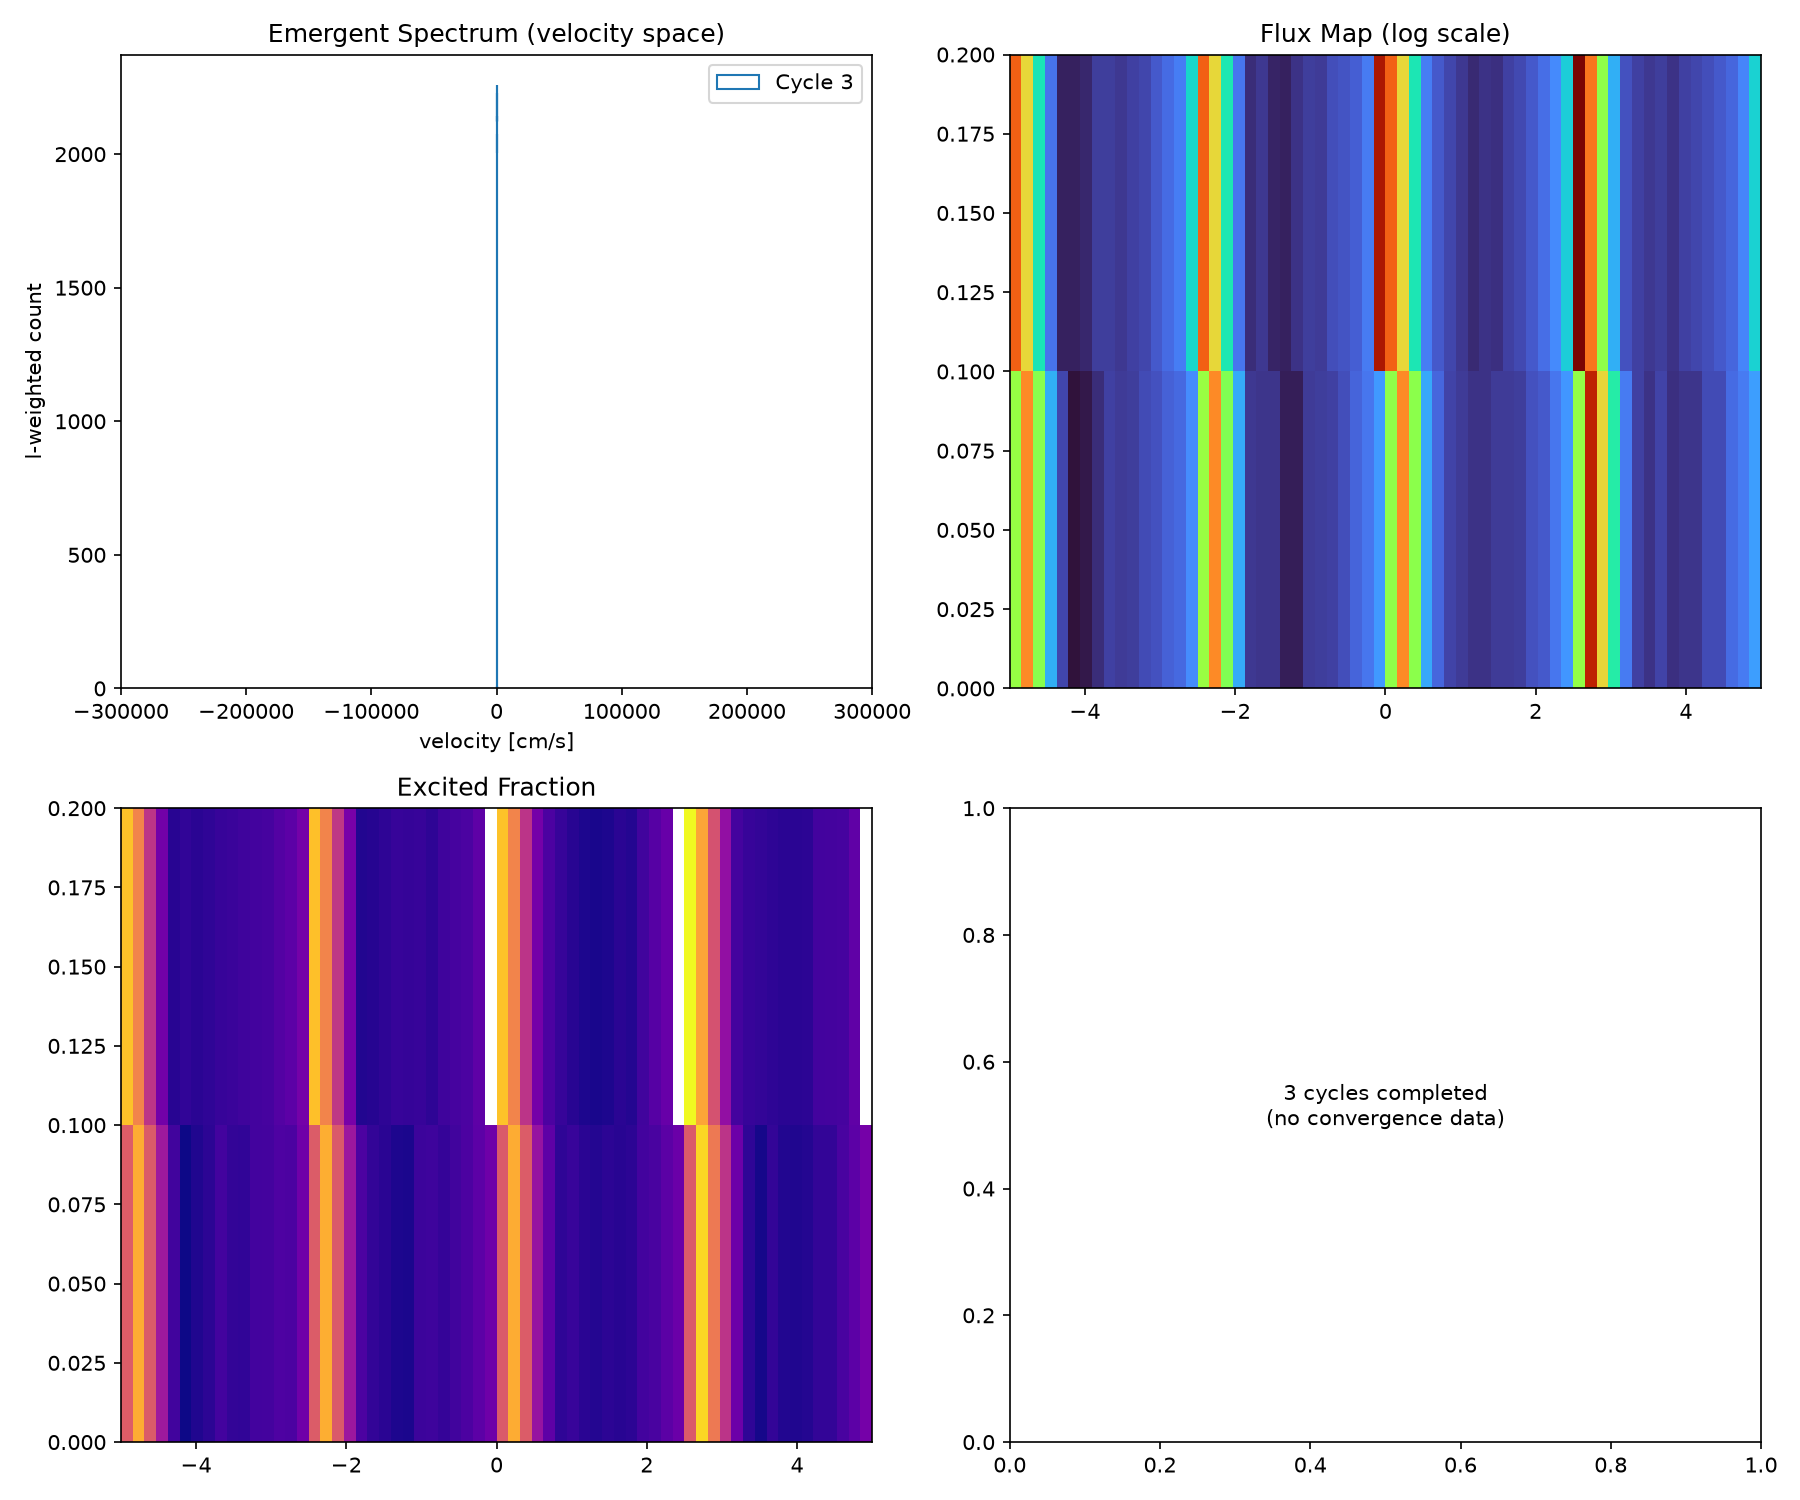
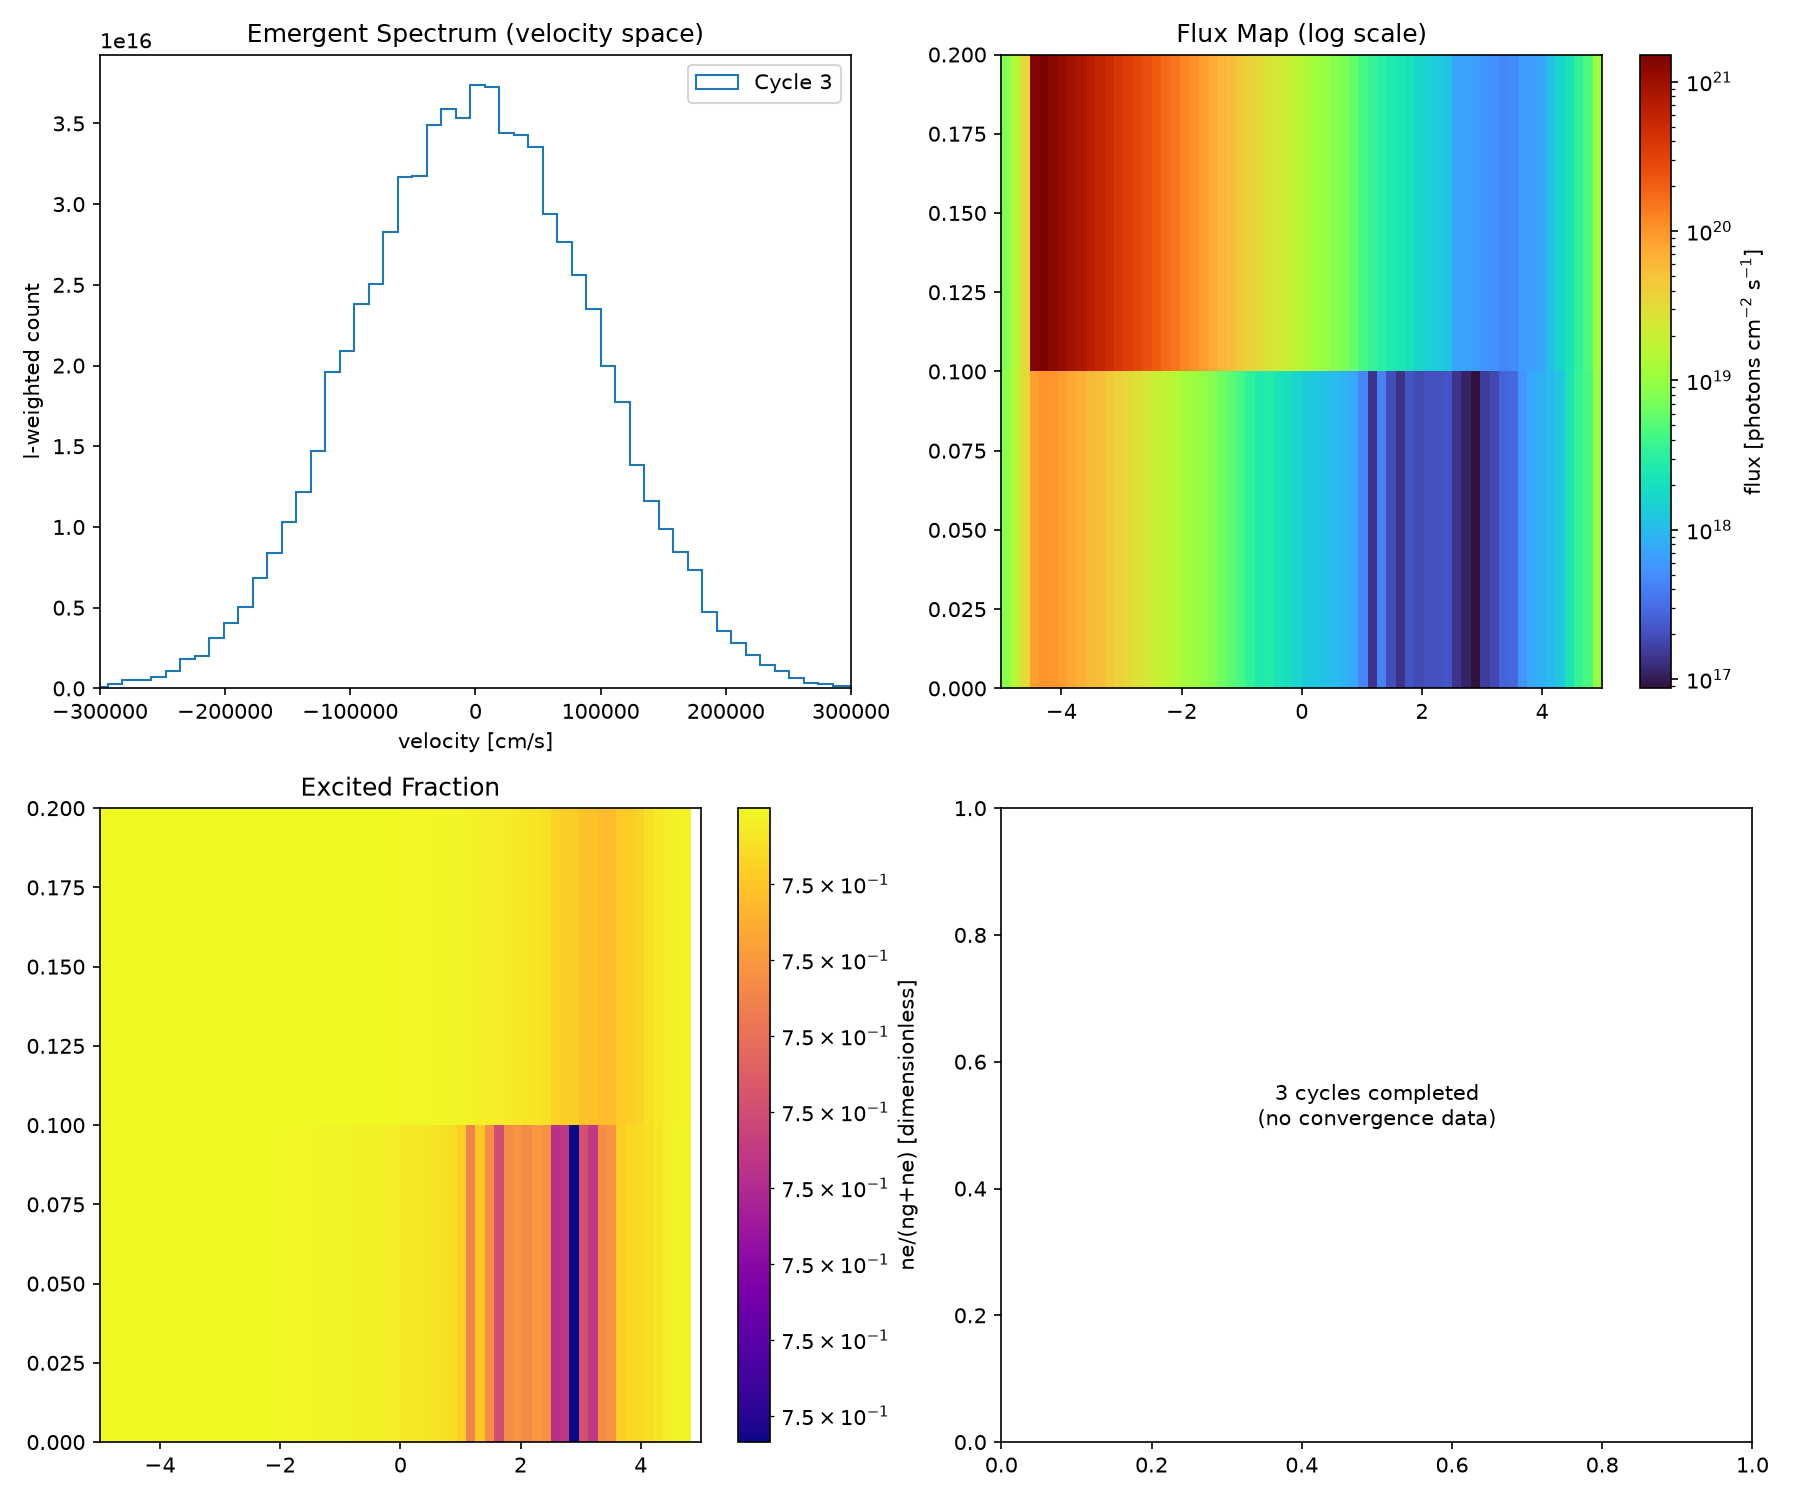
fix: proper scaling, dv_c removal, 3D reshape, colorbar labels, gen.h sv init
- write_photon_data returns scale factor; iterate/pipeline undo scaling
- output flx and exc_flux_flat always in CGS
- dv_c removed from Kratos photon struct and Python 10-col format
- gen.h: sv=sigma (was 0), valid ncol 9/10, fixed sigma/amplitude checks
- slice_plot_2d: (nz,ny,nx) reshape + .T transpose for pcolormesh
- visualize.py: cbar_label param for dimensionless/CGS labels
- pipeline.py: unit_l0/unit_t0 params, proper scaling on readback
- AGENTS.md: pitfalls 6-14 covering all discovered patterns

diff --git a/pipeline/pipeline.py b/pipeline/pipeline.py
@@ -114,7 +114,8 @@ def run_kratos_cycle(work_dir, cycle, field_file, photon_file,
 def run_pipeline(model, mesh, work_dir, n_cycles=3,
                  n_photon=10000, n_step=1000, n_scat=100,
                  n_fld=2, ph_mode=0, par_overrides=None,
-                 keep_intermediate=True):
+                 keep_intermediate=True,
+                 unit_l0=1.0, unit_t0=1.0):
     """
     Run the full population-updating pipeline.
 
@@ -129,6 +130,8 @@ def run_pipeline(model, mesh, work_dir, n_cycles=3,
     n_fld : int  Number of flux/field components
     ph_mode : int  0=coherent, 1=CFR
     par_overrides : dict  Additional par file overrides
+    unit_l0 : float  code length unit in CGS (cm per code-length)
+    unit_t0 : float  code time unit in CGS (s per code-time)
 
     Returns
     -------
@@ -167,10 +170,10 @@ def run_pipeline(model, mesh, work_dir, n_cycles=3,
         field_file = os.path.join(work_dir, f'fields_cycle{cycle}.bin')
         write_field_data(field_file, fields, mesh)
 
-        # Generate photons
+        # Write photon binary and capture proper-weight scale factor
         photons = model.generate_photons(populations, mesh, cycle)
         photon_file = os.path.join(work_dir, f'photons_cycle{cycle}.bin')
-        write_photon_data(photon_file, photons)
+        scale = write_photon_data(photon_file, photons)
 
         # Run Kratos
         prefix = f'cycle{cycle}'
@@ -187,11 +190,23 @@ def run_pipeline(model, mesh, work_dir, n_cycles=3,
         # The model's make_fields uses the same field size as Kratos output,
         # so we don't need to strip ghost cells.
         if 'excitation_flux' in output:
-            output['exc_flux_flat'] = output['excitation_flux']
+            area_factor = unit_l0 * unit_l0 * unit_t0
+            inv_scale = 1.0 / scale
+            exc = np.asarray(output['excitation_flux'], dtype=np.float64).ravel()
+            exc = np.nan_to_num(exc, nan=0.0, posinf=0.0, neginf=0.0)
+            exc = exc * inv_scale / area_factor
+            output['exc_flux_flat'] = exc
+            output['excitation_flux'] = exc
         elif 'fab' in output:
             output['exc_flux_flat'] = output['fab']
         if 'flx' in output:
-            output['flx_flat'] = output['flx']
+            area_factor = unit_l0 * unit_l0 * unit_t0
+            inv_scale = 1.0 / scale
+            flx = np.asarray(output['flx'], dtype=np.float64).ravel()
+            flx = np.nan_to_num(flx, nan=0.0, posinf=0.0, neginf=0.0)
+            flx = flx * inv_scale / area_factor
+            output['flx_flat'] = flx
+            output['flx'] = flx
 
         output['cycle'] = cycle
         output['populations'] = {k: v.copy() for k, v in populations.items()}

diff --git a/core/iterator.py b/core/iterator.py
@@ -73,9 +73,7 @@ def iterate(source_photons, species, fields_init, mesh, n_cycles=5,
             v_factor = unit_t0 / unit_l0
             ph_arr[:, 7] *= v_factor
             ph_arr[:, 8] *= v_factor
-        if ph_arr.shape[1] >= 11:
-            ph_arr[:, 10] *= v_factor
-        write_photon_data(photon_file, ph_arr)
+        scale_factor = write_photon_data(photon_file, ph_arr)
 
         prefix = f"cycle{cycle}"
         output, log_text, elapsed = run_kratos_cycle(
@@ -87,16 +85,35 @@ def iterate(source_photons, species, fields_init, mesh, n_cycles=5,
             break
 
         output["cycle"] = cycle
+
+        if 'photons' in output:
+            v_factor = unit_t0 / unit_l0
+            phot = output['photons']
+            for key in ('vel', 'x', 'l', 'sigma'):
+                if key in phot:
+                    arr = np.asarray(phot[key], dtype=np.float64)
+                    if key in ('x', 'l'):
+                        arr *= unit_l0
+                    else:
+                        arr /= v_factor
+                    phot[key] = arr
+
         results.append(output)
 
         if hasattr(species, "update_populations"):
             exc_flux = output.get("excitation_flux", output.get("exc_flux_flat", output.get("fab_flat", output.get("fab", None))))
             flx = output.get("flx_flat", output.get("flx", None))
+            area_factor = unit_l0 * unit_l0 * unit_t0
+            inv_scale = 1.0 / scale_factor
             if exc_flux is not None:
                 exc_flux = np.asarray(exc_flux, dtype=np.float64).ravel()
                 exc_flux = np.nan_to_num(exc_flux, nan=0.0, posinf=0.0, neginf=0.0)
-                area_factor = unit_l0 * unit_l0 * unit_t0
-                exc_flux = exc_flux / area_factor
+                exc_flux = exc_flux * inv_scale / area_factor
+                output['exc_flux_flat'] = exc_flux
+            if flx is not None:
+                flx = np.nan_to_num(np.asarray(flx, dtype=np.float64).ravel(),
+                                    nan=0.0, posinf=0.0, neginf=0.0) * inv_scale / area_factor
+                output['flx'] = flx
             populations = species.update_populations(exc_flux, flx, populations, cycle,
                                                        transition_idx=transition_idx)
 

diff --git a/core/fields.py b/core/fields.py
@@ -95,9 +95,9 @@ def slice_plot_2d(ax, data, mesh, plane="xy", slice_idx=None, log=True, cmap="tu
     nx, ny, nz = int(n_cell[0]), int(n_cell[1]), int(n_cell[2])
 
     if data.size > nx * ny * nz:
-        data_3d = data.reshape(nx, ny, nz, -1)[:, :, :, 0]
+        data_3d = data.reshape(nz, ny, nx, -1)[:, :, :, 0]
     else:
-        data_3d = data.reshape(nx, ny, nz)
+        data_3d = data.reshape(nz, ny, nx)
     norm = LogNorm() if log else None
 
     if coords == "cartesian":
@@ -108,15 +108,15 @@ def slice_plot_2d(ax, data, mesh, plane="xy", slice_idx=None, log=True, cmap="tu
         if plane == "xy":
             si = slice_idx if slice_idx is not None else nz // 2
             X, Y = np.meshgrid(xe, ye, indexing="ij")
-            ax.pcolormesh(X, Y, data_3d[:, :, si], cmap=cmap, norm=norm, **kwargs)
+            pc = ax.pcolormesh(X, Y, data_3d[si, :, :].T, cmap=cmap, norm=norm, **kwargs)
         elif plane == "xz":
             si = slice_idx if slice_idx is not None else ny // 2
             X, Z = np.meshgrid(xe, ze, indexing="ij")
-            ax.pcolormesh(X, Z, data_3d[:, si, :], cmap=cmap, norm=norm, **kwargs)
+            pc = ax.pcolormesh(X, Z, data_3d[:, si, :].T, cmap=cmap, norm=norm, **kwargs)
         elif plane == "yz":
             si = slice_idx if slice_idx is not None else nx // 2
             Y, Z = np.meshgrid(ye, ze, indexing="ij")
-            ax.pcolormesh(Y, Z, data_3d[si, :, :], cmap=cmap, norm=norm, **kwargs)
+            pc = ax.pcolormesh(Y, Z, data_3d[:, :, si].T, cmap=cmap, norm=norm, **kwargs)
         else:
             raise ValueError(f"Unknown plane '{plane}' for Cartesian mesh")
 
@@ -131,11 +131,13 @@ def slice_plot_2d(ax, data, mesh, plane="xy", slice_idx=None, log=True, cmap="tu
             R, Theta = np.meshgrid(r_face, theta_face, indexing="ij")
             X = R * np.sin(Theta)
             Y = R * np.cos(Theta)
-            ax.pcolormesh(X, Y, slc.T, cmap=cmap, norm=norm, **kwargs)
+            pc = ax.pcolormesh(X, Y, slc.T, cmap=cmap, norm=norm, **kwargs)
         else:
             raise ValueError(f"Unknown plane '{plane}' for spherical mesh")
     else:
         raise ValueError(f"Unknown coordinate system '{coords}'")
+
+    return pc
 
 
 def validate_units(fields):

diff --git a/docs/examples/plane_parallel.py b/docs/examples/plane_parallel.py
@@ -92,7 +92,7 @@ fields = {
 # ── 4. Generate source photons ─────────────────────────────────────────
 #
 # Point source at (x=-4.5, y=0.1, z=0.1) just outside the left face.
-# 11-column format: x,y,z, dir_x,dir_y,dir_z, proper, vel, sigma, amplitude, dv_c
+# 10-column format: x,y,z, dir_x,dir_y,dir_z, proper, vel, sigma, amplitude
 #
 
 print("Generating photons...")
@@ -103,7 +103,7 @@ lam = 2.35e-4     # 2.35 microns (CO v=0→2 band head)
 sigma     = b_sca / np.sqrt(2)   # intrinsic Doppler width
 amplitude = 1.0                   # line strength (unit for scaling)
 
-ph_arr = np.zeros((n_photon, 11), dtype=np.float64)
+ph_arr = np.zeros((n_photon, 10), dtype=np.float64)
 ph_arr[:, 0] = -4.5
 ph_arr[:, 1] = 0.1
 ph_arr[:, 2] = 0.1
@@ -114,7 +114,6 @@ ph_arr[:, 6] = (L / (h * c / lam)) / n_photon   # proper weight
 ph_arr[:, 7] = 0.0                  # vel: zero velocity offset (line center)
 ph_arr[:, 8] = sigma                # sigma: intrinsic Doppler width
 ph_arr[:, 9] = amplitude            # amplitude: line strength
-ph_arr[:, 10] = 0.0                 # dv_c: line center = 0
 
 E_ph = h * c / lam
 N_dot = L / E_ph
@@ -186,7 +185,8 @@ if len(final_pops) >= 2:
     n_ground = pop_vals[0]
     n_excited = pop_vals[1]
     plot_population_map(axes[1, 0], n_excited / (n_ground + n_excited + 1e-30),
-                        mesh, title='Excited Fraction')
+                        mesh, title='Excited Fraction',
+                        cbar_label='ne/(ng+ne) [dimensionless]')
 
 # 7d. Convergence history
 print("Plotting convergence...")
@@ -209,7 +209,7 @@ print(f"\nResults saved to {outpath}")
 
 for k, res in enumerate(results):
     print(f"\nCycle {k+1}:")
-    exc_flux = res.get('excitation_flux')
+    exc_flux = res.get('exc_flux_flat', res.get('excitation_flux'))
     flx = res.get('flx')
     if exc_flux is not None:
         print(f"  excitation_flux_max = {exc_flux.max():.4f}")

diff --git a/pipeline/kratos_io.py b/pipeline/kratos_io.py
@@ -54,12 +54,13 @@ def write_photon_data(filename, photons, n_col=None):
     ----------
     filename : str
     photons : ndarray (n_ph, n_col)
-        Columns: x, y, z, dir_x, dir_y, dir_z, proper, [vel], [sigma, amplitude, dv_c]
+        Columns: x, y, z, dir_x, dir_y, dir_z, proper, [vel], [sigma, amplitude]
     n_col : int, optional
-        Default: photons.shape[1]. Must be 7, 8, or 11.
+        Default: photons.shape[1]. Must be 7, 8, 9, or 10.
     """
     ph = np.asarray(photons, dtype=np.float64)
     proper_max = abs(ph[:, 6].max()) if ph.shape[1] >= 7 else 0.0
+    scale = 1.0
     if proper_max > 1e38:
         scale = 1.0 / proper_max
         ph[:, 6] *= scale
@@ -67,8 +68,8 @@ def write_photon_data(filename, photons, n_col=None):
     ph = ph.astype(np.float32)
     if n_col is None:
         n_col = ph.shape[1]
-    if n_col not in (7, 8, 11):
-        raise ValueError(f'n_col must be 7 or 8, got {n_col}')
+    if n_col not in (7, 8, 9, 10):
+        raise ValueError(f'n_col must be 7, 8, 9, or 10, got {n_col}')
 
     bio = binary_io(filename)
     bio.cache('par_n_col', n_col, dtype='int32')
@@ -76,6 +77,7 @@ def write_photon_data(filename, photons, n_col=None):
     bio.cache('par_par_dat', ph, dtype='float32')
     bio.save()
     print(f'Wrote photons: {filename} ({ph.shape[0]} photons, {n_col} cols)')
+    return scale
 
 
 def read_output(filename):
@@ -168,8 +170,6 @@ def read_output(filename):
             phot['l'] = bio.as_array(raw_key, 'f')
         elif '_rank_' in raw_key and raw_key.endswith('_vel'):
             phot['vel'] = bio.as_array(raw_key, 'f')
-        elif '_rank_' in raw_key and raw_key.endswith('_dv_c'):
-            phot['dv_c'] = bio.as_array(raw_key, 'f')
         elif '_rank_' in raw_key and raw_key.endswith('_sigma'):
             phot['sigma'] = bio.as_array(raw_key, 'f')
         elif '_rank_' in raw_key and raw_key.endswith('_amplitude'):

diff --git a/core/visualize.py b/core/visualize.py
@@ -31,13 +31,17 @@ def plot_emergent_spectrum(ax, photons, bins=80, xlim=None, label=""):
         ax.legend()
 
 
-def plot_flux_slice(ax, flx, mesh, title="", log=True, cmap="turbo"):
-    slice_plot_2d(ax, flx, mesh, plane="xy", slice_idx=None, log=log, cmap=cmap)
+def plot_flux_slice(ax, flx, mesh, title="", log=True, cmap="turbo", cbar_label=None):
+    pc = slice_plot_2d(ax, flx, mesh, plane="xy", slice_idx=None, log=log, cmap=cmap)
+    label = cbar_label or "flux [photons cm$^{-2}$ s$^{-1}$]"
+    plt.colorbar(pc, ax=ax, label=label)
     ax.set_title(title or "Flux slice (xy)")
 
 
-def plot_population_map(ax, n, mesh, level=0, title="", log=True, cmap="plasma"):
-    slice_plot_2d(ax, n, mesh, plane="xy", slice_idx=None, log=log, cmap=cmap)
+def plot_population_map(ax, n, mesh, level=0, title="", log=True, cmap="plasma", cbar_label=None):
+    pc = slice_plot_2d(ax, n, mesh, plane="xy", slice_idx=None, log=log, cmap=cmap)
+    label = cbar_label or f"n{level} [cm$^{{-3}}]$"
+    plt.colorbar(pc, ax=ax, label=label)
     ax.set_title(title or f"Population level {level} slice (xy)")
 
 

diff --git a/docs/examples/plane_parallel_callables.py b/docs/examples/plane_parallel_callables.py
@@ -157,8 +157,8 @@ print(f"  N_dot = {L/E_ph:.2e} ph/s")
 print(f"  proper_weight = {proper_weight:.2e} ph/packet")
 print(f"  sigma = {sigma:.1f} cm/s")
 
-# 11-column photons: x,y,z, dir_x,dir_y,dir_z, proper, vel, sigma, amplitude, dv_c
-ph_arr = np.zeros((n_photon, 11), dtype=np.float64)
+# 10-column photons: x,y,z, dir_x,dir_y,dir_z, proper, vel, sigma, amplitude
+ph_arr = np.zeros((n_photon, 10), dtype=np.float64)
 ph_arr[:, 0] = -4.5          # x = left face + small offset
 ph_arr[:, 1] = 0.1           # y
 ph_arr[:, 2] = 0.1           # z
@@ -169,7 +169,6 @@ ph_arr[:, 6] = proper_weight
 ph_arr[:, 7] = 0.0           # vel = 0 (line centre)
 ph_arr[:, 8] = sigma         # intrinsic Doppler width
 ph_arr[:, 9] = amplitude     # line strength
-ph_arr[:, 10] = 0.0          # dv_c = 0 (line centre velocity)
 
 # ── 5. Load CO and select transition explicitly ────────────────────────
 #

diff --git a/molecular/lamda_format.py b/molecular/lamda_format.py
@@ -235,15 +235,15 @@ class SpeciesData:
             b_thermal = np.sqrt(1.66289e8 * temperature[ic]
                                 / 28.0 + 1e-35)
             sigma_ph = b_thermal / np.sqrt(2.0)
-            dv_c = rng.normal(0.0, sigma_ph, n_ph)
+            vel_draw = rng.normal(0.0, sigma_ph, n_ph)
 
             weight_per_ph = lum_cell / n_ph if n_ph > 0 else 0.0
 
             for j in range(n_ph):
                 photons.append([x[j], y[j], z[j],
                                 dir_x[j], dir_y[j], dir_z[j],
-                                weight_per_ph, dv_c[j],
-                                sigma_ph, 1.0, dv_c[j]])
+                                weight_per_ph, vel_draw[j],
+                                sigma_ph, 1.0])
         if not photons:
             return np.zeros((0, 11), dtype=np.float64)
         return np.array(photons, dtype=np.float64)
